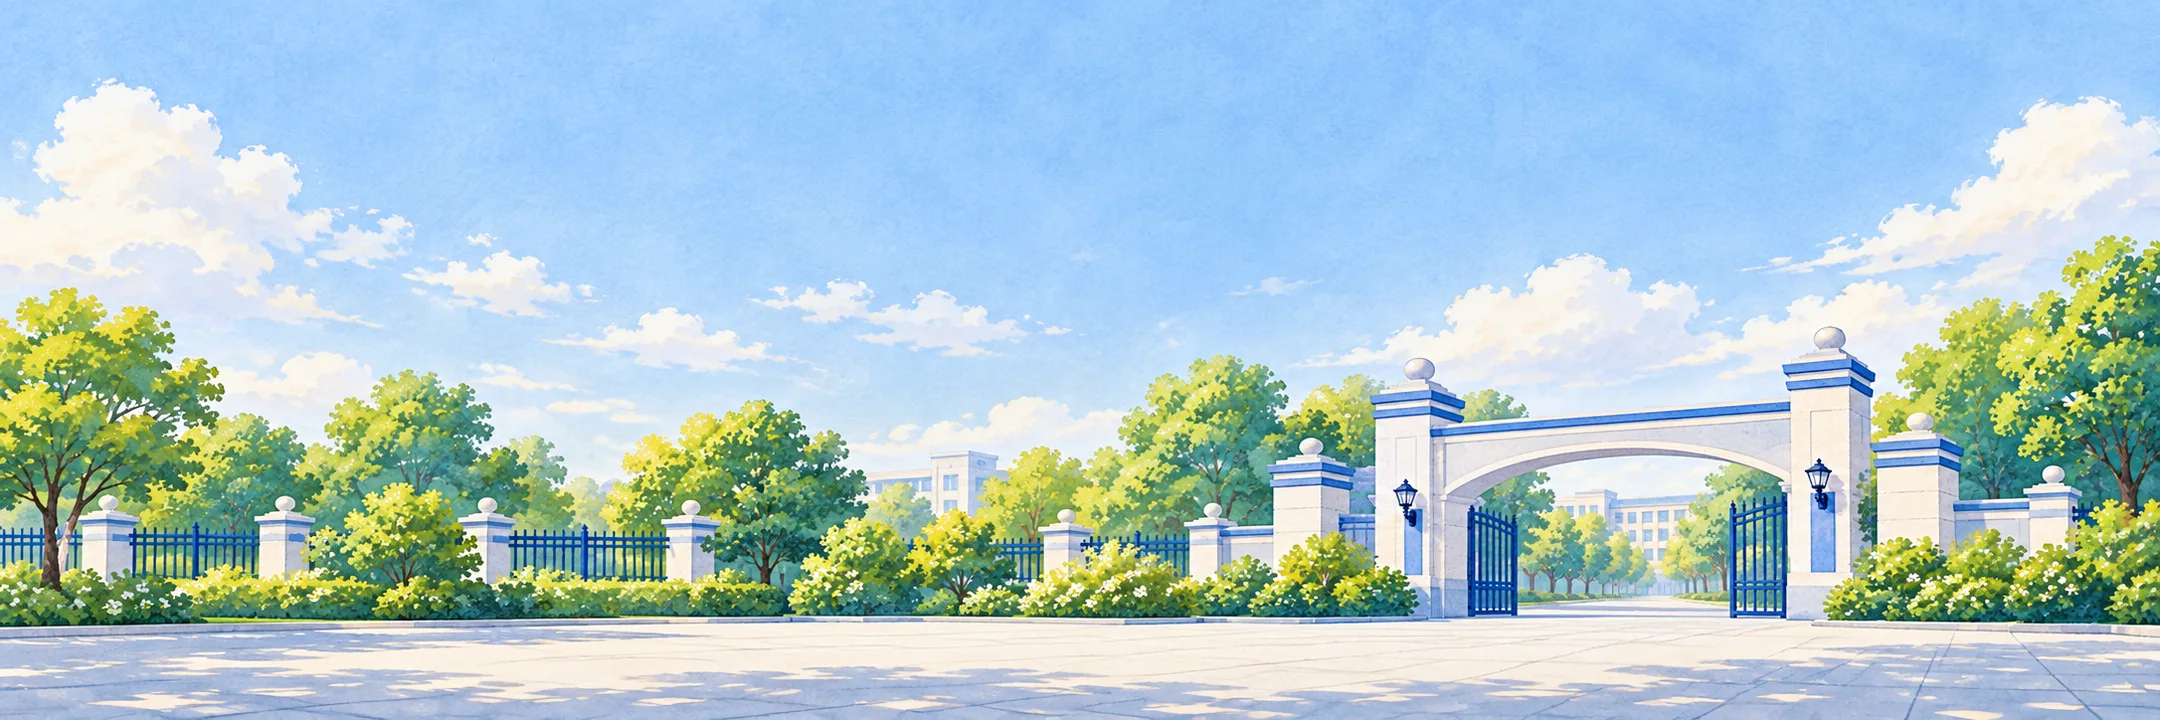
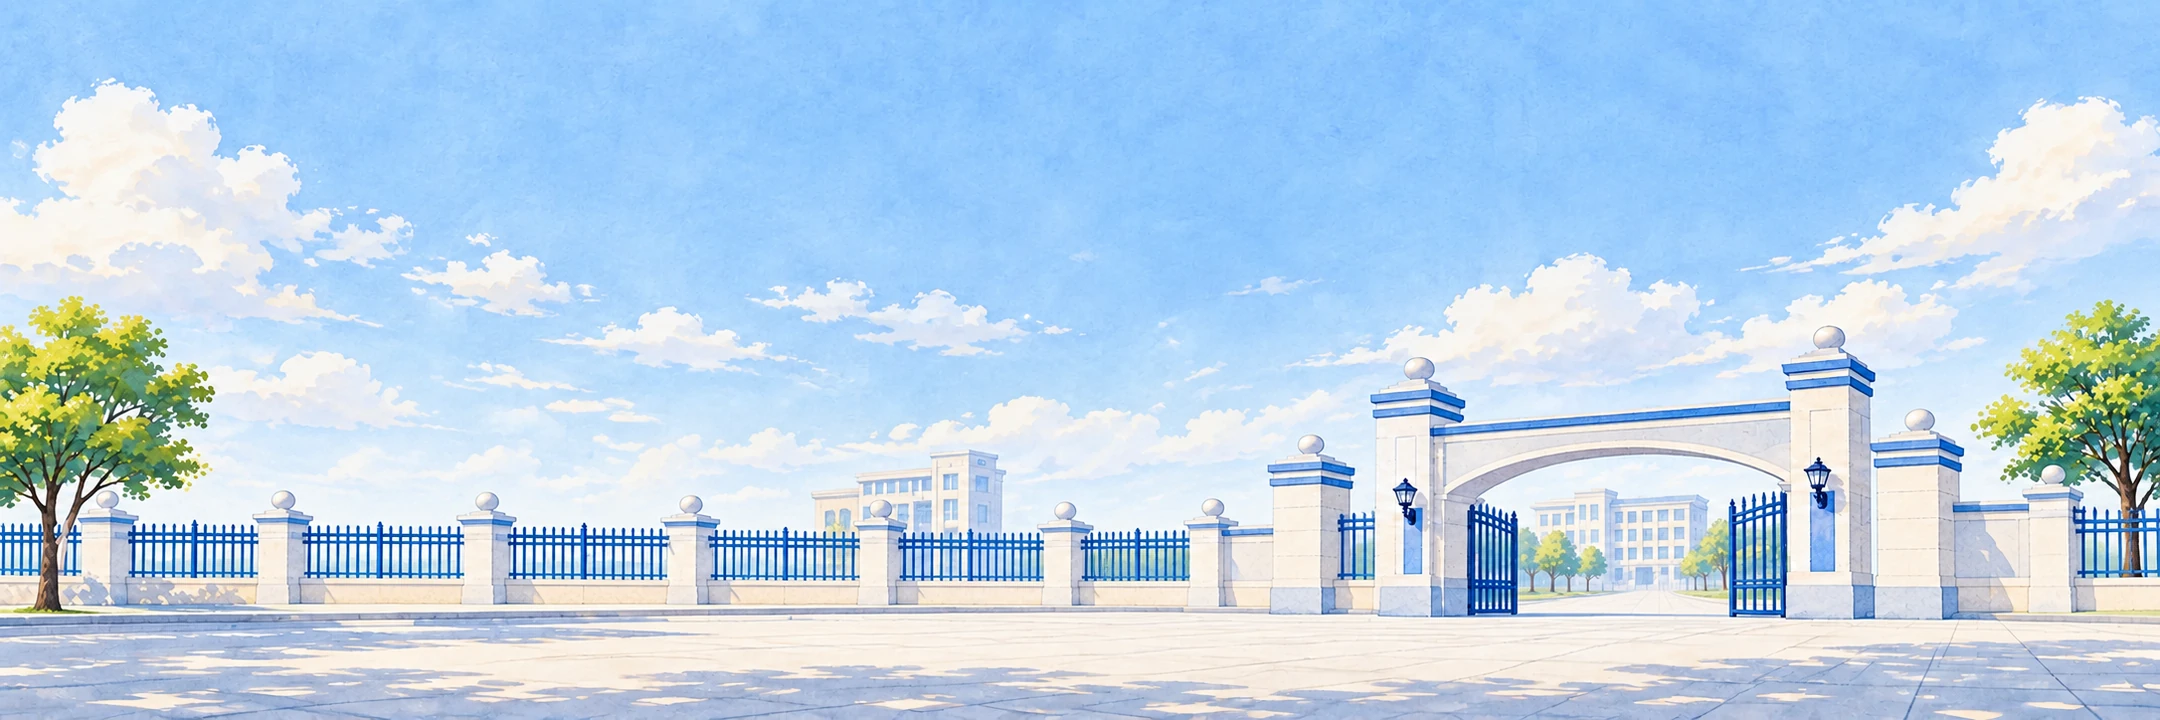
Publish approved footer artwork, opacity and responsive ground alignment

diff --git a/frontend/src/campus-shared/CampusFooter.vue b/frontend/src/campus-shared/CampusFooter.vue
@@ -65,7 +65,8 @@ import campusPeople from '../assets/campus-footer-people.webp'
   width: 100%;
   height: 100%;
   object-fit: cover;
-  object-position: center 76%;
+  /* Anchor the walkway under the feet when wide footers crop the landscape. */
+  object-position: center bottom;
   opacity: .13;
 }
 
@@ -78,7 +79,7 @@ import campusPeople from '../assets/campus-footer-people.webp'
   display: block;
   width: auto;
   height: min(180px, calc(100% - 12px), calc((100vw - 36px) * 661 / 1200));
-  opacity: .24;
+  opacity: .33;
   object-fit: contain;
   object-position: center bottom;
 }

diff --git a/README.md b/README.md
@@ -72,3 +72,13 @@ npm run preview
 
 [助手业务 API 与权限](https://github.com/RainSile/SchoolPerks/blob/campus-doc/docs/ASSISTANT-BUSINESS-APIS.md) · [业务测试与修复报告](https://github.com/RainSile/SchoolPerks/blob/campus-doc/docs/BUSINESS-TEST-RESULTS.md)
 <!-- campus-release-20261026-end -->
+
+<!-- campus-cloud-20261028-start -->
+## 云端部署与沙箱回调验收
+
+前后端及独立 MySQL 已部署，原中间件保留并通过配置化加密连接访问。真实 0.01 元沙箱付款、HTTPS 签名回调与正常业务退款已通过，临时验收权限已清理；本机源库 56 表摘要未改变。
+
+[部署与迁移](https://github.com/RainSile/SchoolPerks/blob/campus-doc/docs/CLOUD-DEPLOYMENT.md) · [部署验收与覆盖边界](https://github.com/RainSile/SchoolPerks/blob/campus-doc/docs/CLOUD-ACCEPTANCE.md) · [实际支付及退款](https://github.com/RainSile/SchoolPerks/blob/campus-doc/docs/ALIPAY-CLOUD-ACCEPTANCE.md)
+
+网页收银台账号密码方式的供应商安全组件异常、真实短信待接入仍单独记录。付款由真实沙箱钱包完成，不以接口配置成功代替付款。服务器地址、密钥、账号及数据库备份均不进入源码；业务参数通过私有配置修改。
+<!-- campus-cloud-20261028-end -->
